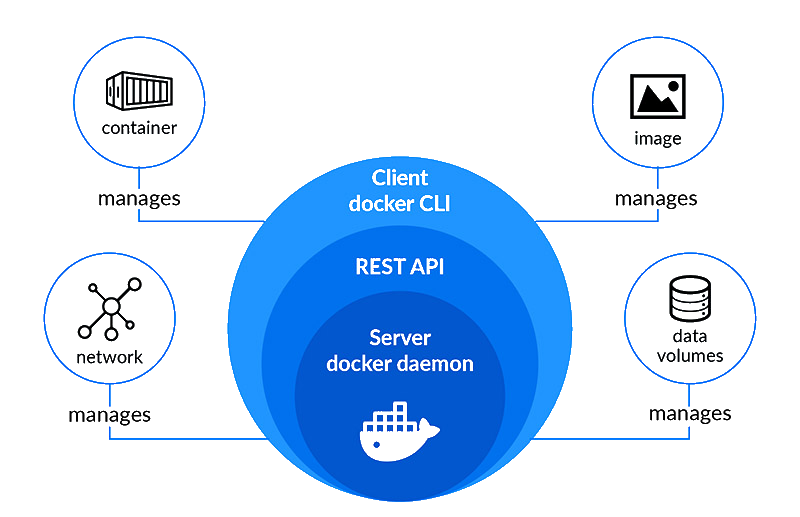
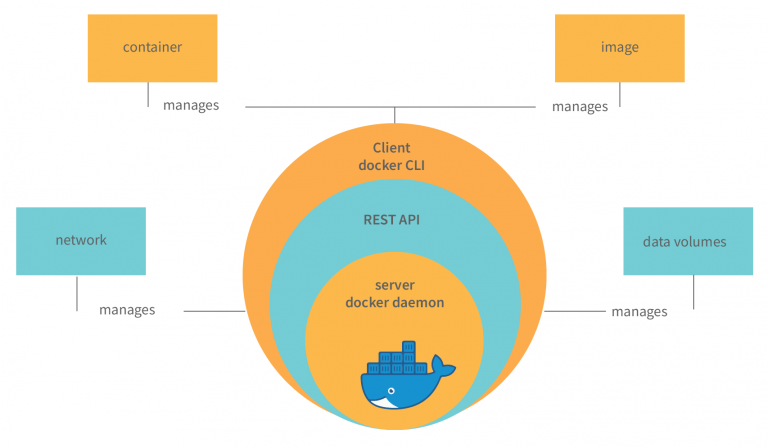
docs: :memo: atualizando readme

diff --git a/README.md b/README.md
@@ -1,6 +1,8 @@
 # 🐳 Introdução ao Docker
 
-[IMAGEM]
+<div align="center">
+  <img src="https://raw.githubusercontent.com/Willian-Brito/docker-learning/refs/heads/main/prints/docker_logo.svg.png" />
+</div>
 
 ## 📌 O que é ?
 
@@ -15,15 +17,22 @@ A arquitetura do Docker pode ser dividida em quatro partes principais:
 
 1. **Docker Engine**  
    O serviço principal que roda em segundo plano. Ele é responsável por criar, executar e gerenciar containers.
-    [IMAGEM]
+   <div align="center">
+      <img src="https://raw.githubusercontent.com/Willian-Brito/docker-learning/refs/heads/main/prints/docker_engine.png" height="300
+      " />
+   </div>
 
 2. **Docker Images**  
    Imagens são templates imutáveis com tudo que um container precisa. Você pode pensar nelas como snapshots do ambiente da aplicação.
-   [IMAGEM]
+   <div align="center">
+      <img src="https://raw.githubusercontent.com/Willian-Brito/docker-learning/refs/heads/main/prints/Imagens%20docker.png" height="300" />
+   </div>
 
 3. **Docker Containers**  
    São instâncias executáveis baseadas nas imagens. Podem ser criadas, iniciadas, paradas e removidas de forma rápida.
-   [IMAGEM]
+   <div align="center">
+      <img src="https://raw.githubusercontent.com/Willian-Brito/docker-learning/refs/heads/main/prints/docker_container.png" height="300" />
+   </div>
 
 4. **Dockerfile**  
    É um arquivo que define como a imagem do container deve ser construída, especificando base, comandos, cópias, portas e variáveis.
@@ -41,13 +50,20 @@ A arquitetura do Docker pode ser dividida em quatro partes principais:
 | **Segurança**          | Isolamento menor (compartilha kernel)        | Isolamento mais robusto                        |
 | **Uso principal**      | Microserviços, CI/CD, DevOps, cloud-native   | Aplicações legadas, ambientes full-stack       |
 
-[IMAGEM: Docker vs VM]
+
+**Exemplo:**
+<div align="center">
+   <img src="https://raw.githubusercontent.com/Willian-Brito/docker-learning/refs/heads/main/prints/docker%20vs%20vm.png" height="400" />
+</div>
 
 ## 🏗 Arquitetura
 
 A arquitetura do Docker é baseada em um modelo cliente-servidor que permite o controle e gerenciamento de containers. Ela é composta por três elementos principais:
 
-[IMAGEM]
+<div align="center">
+   <img src="https://raw.githubusercontent.com/Willian-Brito/docker-learning/refs/heads/main/prints/docker_arquitetura.png" height="400" />
+</div>
+
 
 ### 🔳 1. Docker CLI (Cliente)
 
@@ -233,7 +249,9 @@ docker volume rm meu-volume
 ## 🌐 O que é Docker Network?
 Docker Network é a camada de rede virtual que conecta os containers. Quando você cria um container, ele é automaticamente conectado a uma rede (por padrão, a rede `bridge`) mas você também pode definir redes personalizadas com diferentes comportamentos e isolamento.
 
-[IMAGE]
+<div align="center">
+   <img src="https://raw.githubusercontent.com/Willian-Brito/docker-learning/refs/heads/main/prints/networking.png" height="400" />
+</div>
 
 ## 🧠 Como funciona a comunicação entre containers?
  * Containers na mesma rede Docker (por exemplo, uma rede do tipo bridge ou overlay) podem se comunicar entre si pelo nome do container ou pelo nome de serviço no Docker Compose.
@@ -338,6 +356,10 @@ O **Docker Compose** é uma ferramenta que permite definir e gerenciar múltiplo
 
 No Docker, existem diferentes tipos de volumes que podem ser usados para persistir dados ou compartilhar arquivos entre o host e os contêineres.
 
+<div align="center">
+   <img src="https://raw.githubusercontent.com/Willian-Brito/docker-learning/refs/heads/main/prints/volumes.png" height="400" />
+</div>
+
 ### 📑 Tabela Comparativa
 
 | Tipo         | Comando (exemplo)                       | Descrição |
@@ -389,8 +411,6 @@ docker run --name origem-temp -it --mount type=tmpfs,destination=/mytmp ubuntu b
 | Persistência de dados                 | Volume           |
 | Compartilhamento com arquivos do host | Bind Mount       |
 | Dados temporários ou sensíveis        | tmpfs            |
-
-[IMAGEM]
 
 ---
 
@@ -457,6 +477,10 @@ docker buildx build --platform linux/amd64,linux/arm64 -t willianbrito00/angular
 **Kubernetes** (também chamado de **K8s**) é uma **plataforma open source** para **orquestração de contêineres**. Ele foi originalmente desenvolvido pelo **Google** e hoje é mantido pela **Cloud Native Computing Foundation (CNCF)**.
 
 Ele ajuda a **implantar**, **escalar** e **gerenciar aplicações em contêineres** (como os criados com Docker) de forma automática e eficiente.
+
+<div align="center">
+   <img src="https://raw.githubusercontent.com/Willian-Brito/docker-learning/refs/heads/main/prints/kubernetes.png" height="400" />
+</div>
 
 ### 🔧 O que o Kubernetes faz?
  1. **Orquestra contêineres:** decide onde e como os contêineres devem rodar.
